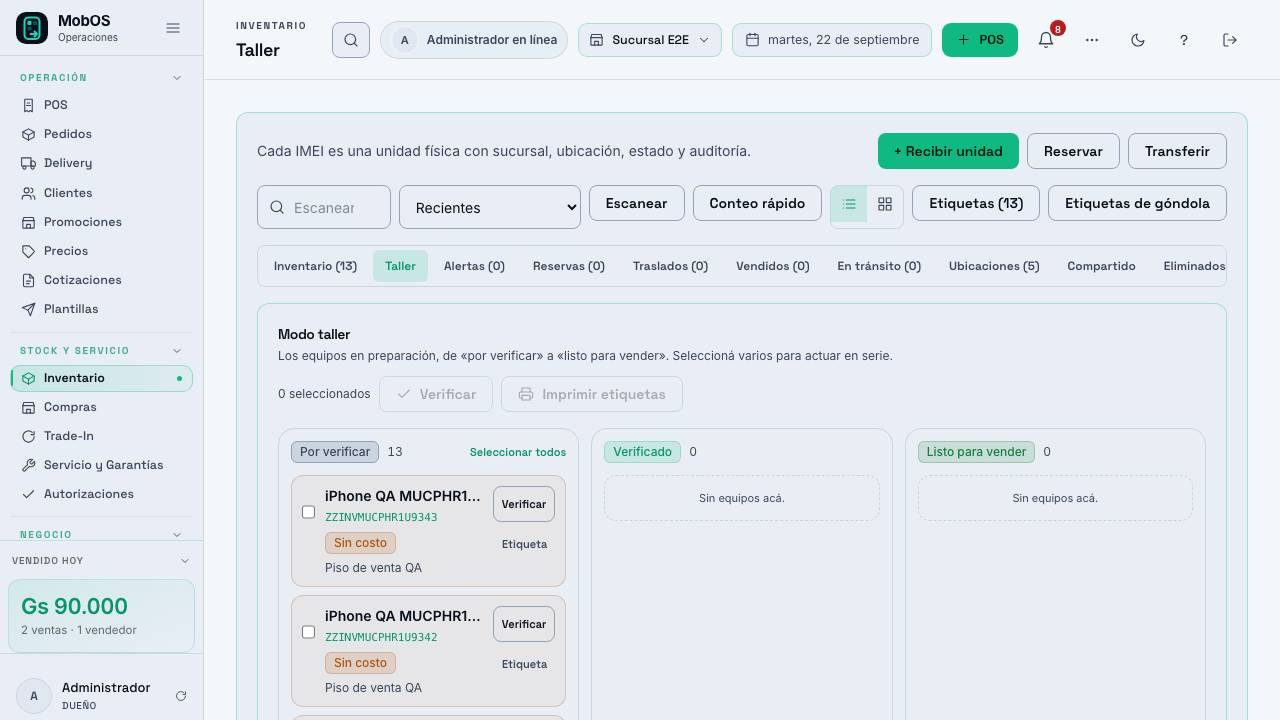
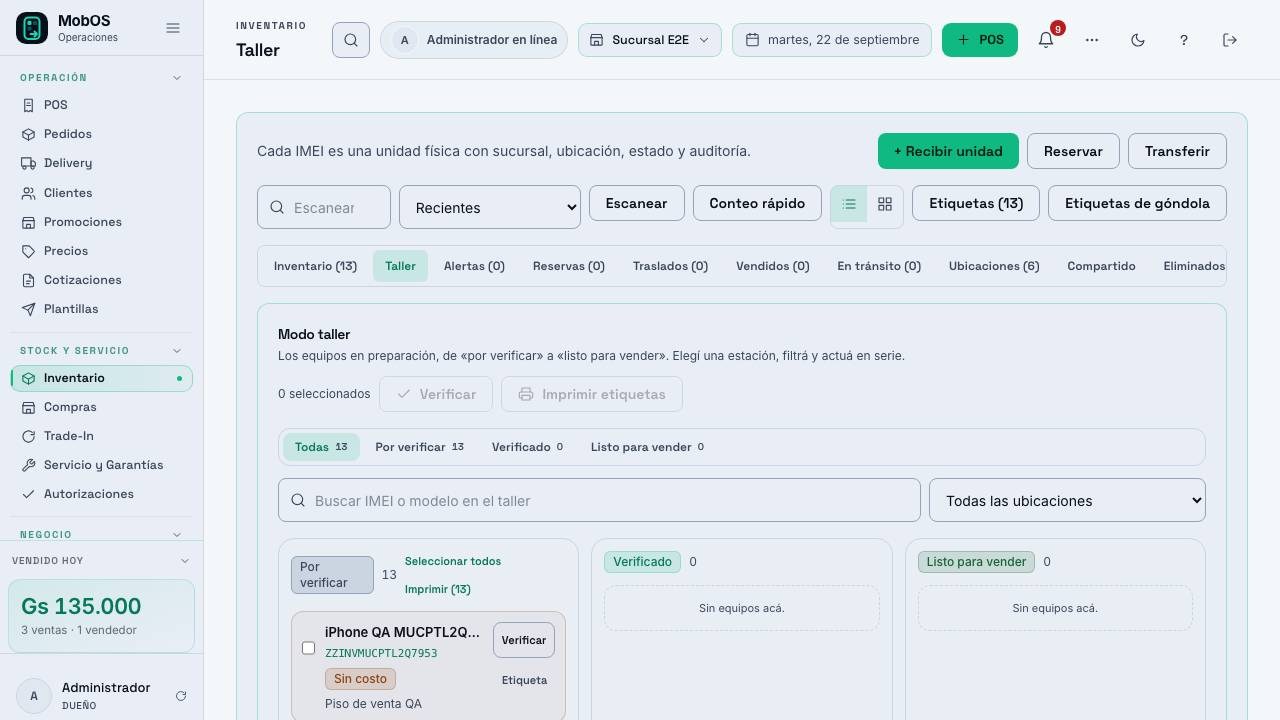
feat(inventario): estaciones, filtros e impresion en serie en el modo taller (#240/#241)
- Estaciones del flujo (Todas / Por verificar / Verificado / Listo) con conteos:
  al elegir una se muestra solo ese carril (util en movil y lotes grandes).
- Filtros por IMEI/modelo (sin acentos) y por ubicacion, con estados vacios
  propios; el verificador post-deploy tambien cubre el rack en el demo.
- Impresion en serie: por seleccion y por carril completo (Imprimir (n)),
  ademas de la barra de acciones ya existente.
- Logica pura ampliada en src/lib/tallerRack.js (ESTACIONES, filtrarRack) con
  tests; e2e del inventario 10/10 y capturas 04/05 en docs/qa/240-taller/.

Refs #240
Refs #241

diff --git a/src/components/inventory/TallerRack.jsx b/src/components/inventory/TallerRack.jsx
@@ -1,9 +1,10 @@
 import { useMemo, useState } from 'react'
-import { Badge, Button, Card } from '@/components/ui'
+import { Badge, Button, Card, Select } from '@/components/ui'
 import Icon from '@/components/shared/Icon'
-import { CELDA_DATO } from '@/components/shared/tabla'
+import SearchField from '@/components/shared/SearchField'
+import { CELDA_DATO, CELDA_IDENTIDAD } from '@/components/shared/tabla'
 import { cn } from '@/lib/utils'
-import { agruparRack, bateriaDe, conCosto, estadoEnRack, ETIQUETA_RACK, gradoDe, ORDEN_RACK, TONO_RACK } from '@/lib/tallerRack'
+import { agruparRack, bateriaDe, conCosto, ESTACIONES, estadoEnRack, ETIQUETA_RACK, filtrarRack, gradoDe, ORDEN_RACK, TONO_RACK } from '@/lib/tallerRack'
 
 const COLOR_GRADO = { A: 'green', B: 'orange', C: 'slate' }
 
@@ -13,17 +14,19 @@ function nombreUnidad(unit) {
 
 function tileTonos(estado) {
   if (estado === 'listo') return 'border-ok/30 bg-ok/5'
-  if (estado === 'verificado') return 'border-sky-400/25 bg-sky-400/5'
+  if (estado === 'verificado') return 'border-info/25 bg-info/5'
   return 'border-warn/25 bg-warn/5'
 }
 
 // Modo taller/rack (#240 §4): varios equipos en preparación agrupados por
-// estado (por verificar → verificado → listo para vender) con acciones en serie
-// (verificar / imprimir etiquetas). Reutiliza la verificación y las etiquetas
-// del inventario; cuando INV aterrice la inspección (#240 §1-2), cada tile
-// muestra el grado y la batería sin cambiar esta pantalla.
+// estación (por verificar → verificado → listo para vender), con filtros
+// (búsqueda/ubicación), impresión en serie (selección o carril completo) y
+// acciones por unidad. Reutiliza la verificación y las etiquetas del
+// inventario; cuando INV aterrice la inspección (#240 §1-2), cada tile muestra
+// el grado y la batería sin cambiar esta pantalla.
 export default function TallerRack({
   unidades = [],
+  ubicaciones = [],
   busy = false,
   onVerificar,
   onVerificarLote,
@@ -31,9 +34,15 @@ export default function TallerRack({
   onEtiquetasLote,
 }) {
   const [seleccionados, setSeleccionados] = useState([])
-  const grupos = useMemo(() => agruparRack(unidades), [unidades])
+  const [estacion, setEstacion] = useState('todas')
+  const [busqueda, setBusqueda] = useState('')
+  const [ubicacionId, setUbicacionId] = useState('')
+
+  const filtradas = useMemo(() => filtrarRack(unidades, { busqueda, ubicacionId }), [unidades, busqueda, ubicacionId])
+  const grupos = useMemo(() => agruparRack(filtradas), [filtradas])
   const porId = useMemo(() => new Map(unidades.map((unit) => [unit.id, unit])), [unidades])
   const elegidas = seleccionados.map((id) => porId.get(id)).filter(Boolean)
+  const visibles = estacion === 'todas' ? ORDEN_RACK : [estacion]
 
   const alternar = (id) => setSeleccionados((actuales) => (
     actuales.includes(id) ? actuales.filter((x) => x !== id) : [...actuales, id]
@@ -45,6 +54,7 @@ export default function TallerRack({
       return todos ? actuales.filter((id) => !ids.includes(id)) : [...new Set([...actuales, ...ids])]
     })
   }
+  const conteo = (id) => (id === 'todas' ? filtradas.length : grupos[id].length)
 
   return (
     <Card className="p-4 md:p-5" data-testid="rack-taller">
@@ -52,7 +62,7 @@ export default function TallerRack({
         <div className="min-w-0">
           <h2 className="font-semibold">Modo taller</h2>
           <p className="mt-1 text-xs text-mute">
-            Los equipos en preparación, de «por verificar» a «listo para vender». Seleccioná varios para actuar en serie.
+            Los equipos en preparación, de «por verificar» a «listo para vender». Elegí una estación, filtrá y actuá en serie.
           </p>
         </div>
         <div className="flex flex-wrap items-center gap-2">
@@ -75,11 +85,62 @@ export default function TallerRack({
           >
             <Icon name="printer" className="h-4 w-4" /> Imprimir etiquetas
           </Button>
+          {elegidas.length > 0 && (
+            <button
+              type="button"
+              className="text-xs font-semibold text-mute hover:underline"
+              onClick={() => setSeleccionados([])}
+            >
+              Limpiar
+            </button>
+          )}
         </div>
       </div>
 
-      <div className="mt-4 grid gap-3 lg:grid-cols-3">
-        {ORDEN_RACK.map((estado) => {
+      {/* Estaciones del flujo (con conteos): Todas o una sola. */}
+      <div className="mt-4 flex flex-wrap gap-1 rounded-xl border border-ink-600 bg-ink-800 p-1" role="tablist" aria-label="Estaciones del taller">
+        {ESTACIONES.map(({ id, label }) => (
+          <button
+            key={id}
+            type="button"
+            role="tab"
+            aria-selected={estacion === id}
+            data-testid={`rack-estacion-${id}`}
+            onClick={() => setEstacion(id)}
+            className={cn(
+              'flex items-center gap-1.5 rounded-lg px-3 py-1.5 text-xs font-semibold transition',
+              estacion === id ? 'bg-fono/15 text-fono-light' : 'text-mute hover:text-fore',
+            )}
+          >
+            {label}
+            <span className="tabular-nums text-[10px] text-mute">{conteo(id)}</span>
+          </button>
+        ))}
+      </div>
+
+      <div className="mt-3 flex flex-wrap gap-2">
+        <SearchField
+          value={busqueda}
+          onChange={(event) => setBusqueda(event.target.value)}
+          placeholder="Buscar IMEI o modelo en el taller"
+          ariaLabel="Buscar en el taller"
+          className="min-w-0 flex-1"
+        />
+        <Select
+          aria-label="Filtrar por ubicación"
+          className="w-auto"
+          value={ubicacionId}
+          onChange={(event) => setUbicacionId(event.target.value)}
+        >
+          <option value="">Todas las ubicaciones</option>
+          {ubicaciones.map((ubicacion) => (
+            <option key={ubicacion.id} value={ubicacion.id}>{ubicacion.name}</option>
+          ))}
+        </Select>
+      </div>
+
+      <div className={cn('mt-4 grid gap-3', visibles.length > 1 ? 'lg:grid-cols-3' : '')}>
+        {visibles.map((estado) => {
           const lista = grupos[estado]
           const todos = lista.length > 0 && lista.every((unit) => seleccionados.includes(unit.id))
           return (
@@ -94,14 +155,26 @@ export default function TallerRack({
                   <span className="text-xs tabular-nums text-mute">{lista.length}</span>
                 </span>
                 {lista.length > 0 && (
-                  <button
-                    type="button"
-                    onClick={() => alternarColumna(estado)}
-                    className="text-[11px] font-semibold text-fono-light hover:underline"
-                    data-testid={`rack-seleccionar-${estado}`}
-                  >
-                    {todos ? 'Quitar todos' : 'Seleccionar todos'}
-                  </button>
+                  <span className="flex flex-wrap items-center gap-2">
+                    <button
+                      type="button"
+                      onClick={() => alternarColumna(estado)}
+                      className="text-[11px] font-semibold text-fono-light hover:underline"
+                      data-testid={`rack-seleccionar-${estado}`}
+                    >
+                      {todos ? 'Quitar todos' : 'Seleccionar todos'}
+                    </button>
+                    <button
+                      type="button"
+                      disabled={busy}
+                      onClick={() => onEtiquetasLote?.(lista)}
+                      className="text-[11px] font-semibold text-fono-light hover:underline disabled:opacity-50"
+                      title={`Imprimir las etiquetas de los ${lista.length} equipos de esta estación`}
+                      data-testid={`rack-imprimir-${estado}`}
+                    >
+                      Imprimir ({lista.length})
+                    </button>
+                  </span>
                 )}
               </header>
               <div className="mt-3 space-y-2">
@@ -125,7 +198,7 @@ export default function TallerRack({
                           aria-label={`Seleccionar ${unit.serial}`}
                         />
                         <div className="min-w-0 flex-1">
-                          <p className="truncate text-sm font-semibold" title={nombreUnidad(unit)}>{nombreUnidad(unit)}</p>
+                          <p className={CELDA_IDENTIDAD} title={nombreUnidad(unit)}>{nombreUnidad(unit)}</p>
                           <p className="mt-0.5 truncate font-mono text-[11px] text-fono-light" title={unit.serial}>{unit.serial}</p>
                           <p className="mt-1 flex flex-wrap items-center gap-1.5">
                             {grado && <Badge color={COLOR_GRADO[grado]}>Grado {grado}</Badge>}
@@ -150,7 +223,7 @@ export default function TallerRack({
                 })}
                 {!lista.length && (
                   <p className="rounded-xl border border-dashed border-ink-600 p-3 text-center text-[11px] text-mute">
-                    Sin equipos acá.
+                    {busqueda || ubicacionId ? 'Nada coincide con el filtro.' : 'Sin equipos acá.'}
                   </p>
                 )}
               </div>

diff --git a/e2e/inventario-unidades.spec.js b/e2e/inventario-unidades.spec.js
@@ -338,6 +338,26 @@ test('el modo taller agrupa por estado y verifica en serie', async ({ page }) =>
     }
     await page.screenshot({ path: 'docs/qa/240-taller/02-despues-rack.jpg', type: 'jpeg', quality: 70 })
 
+    // Estaciones: una sola a la vez.
+    await page.getByTestId('rack-estacion-por-verificar').click()
+    await expect(page.getByTestId('rack-columna-por-verificar')).toBeVisible()
+    await expect(page.getByTestId('rack-columna-listo')).toHaveCount(0)
+    await page.screenshot({ path: 'docs/qa/240-taller/04-rack-estacion.jpg', type: 'jpeg', quality: 70 })
+    await page.getByTestId('rack-estacion-todas').click()
+    await expect(page.getByTestId('rack-columna-listo')).toBeVisible()
+
+    // Filtros: búsqueda por IMEI (y ubicación) sobre el rack.
+    await page.getByLabel('Buscar en el taller').fill(datos.unidades[0].serial)
+    await expect(page.getByTestId('rack-equipo')).toHaveCount(1)
+    await page.screenshot({ path: 'docs/qa/240-taller/05-rack-busqueda.jpg', type: 'jpeg', quality: 70 })
+    await page.getByLabel('Buscar en el taller').fill('')
+    await page.getByLabel('Filtrar por ubicación').selectOption({ label: datos.locationName })
+    await expect(page.getByTestId('rack-equipo').filter({ hasText: datos.unidades[0].serial })).toBeVisible()
+    await page.getByLabel('Filtrar por ubicación').selectOption('')
+
+    // Impresión en serie: la selección y el carril completo.
+    await expect(page.getByTestId('rack-imprimir-por-verificar')).toBeEnabled()
+
     // Selección de las unidades nuevas y verificación en serie.
     for (const unidad of datos.unidades) await page.getByLabel(`Seleccionar ${unidad.serial}`).check()
     await expect(page.getByTestId('rack-seleccionados')).toHaveText('3 seleccionados')

diff --git a/src/lib/tallerRack.test.js b/src/lib/tallerRack.test.js
@@ -1,6 +1,6 @@
 import assert from 'node:assert/strict'
 import test from 'node:test'
-import { agruparRack, bateriaDe, conCosto, estadoEnRack, gradoDe, sinVerificar, verificada } from './tallerRack.js'
+import { agruparRack, bateriaDe, conCosto, estadoEnRack, filtrarRack, gradoDe, normalizarBusqueda, sinVerificar, verificada } from './tallerRack.js'
 
 // #240 §4: estados del modo taller/rack.
 
@@ -49,4 +49,16 @@ test('agrupa y cuenta las unidades sin verificar', () => {
   assert.deepEqual(grupos.listo.map((u) => u.id), ['u2'])
   assert.deepEqual(grupos.verificado.map((u) => u.id), ['u3'])
   assert.deepEqual(sinVerificar(units).map((u) => u.id), ['u1'])
+})
+
+test('filtra por IMEI o modelo (sin acentos ni mayúsculas) y por ubicación', () => {
+  const units = [
+    { id: 'u1', serial: 'AUR123', product: { name: 'iPhone 15 Pro' }, locationId: 'loc-1' },
+    { id: 'u2', serial: 'SAM456', product: { name: 'Samsung S24' }, locationId: 'loc-2' },
+  ]
+  assert.deepEqual(filtrarRack(units, { busqueda: 'aur12' }).map((u) => u.id), ['u1'])
+  assert.deepEqual(filtrarRack(units, { busqueda: 'IPHONE' }).map((u) => u.id), ['u1'])
+  assert.deepEqual(filtrarRack(units, { ubicacionId: 'loc-2' }).map((u) => u.id), ['u2'])
+  assert.deepEqual(filtrarRack(units, { busqueda: 'samsung', ubicacionId: 'loc-1' }), [])
+  assert.equal(normalizarBusqueda('  iPhone 15  '), 'iphone 15')
 })

diff --git a/src/lib/tallerRack.js b/src/lib/tallerRack.js
@@ -79,3 +79,27 @@ export function agruparRack(unidades = []) {
 export function sinVerificar(unidades = []) {
   return unidades.filter((unidad) => !verificada(unidad))
 }
+
+// Estaciones del rack: la vista completa o una sola estación (útil en móvil y
+// con lotes grandes). Los ids coinciden con los estados.
+export const ESTACIONES = [
+  { id: 'todas', label: 'Todas' },
+  { id: 'por-verificar', label: ETIQUETA_RACK['por-verificar'] },
+  { id: 'verificado', label: ETIQUETA_RACK.verificado },
+  { id: 'listo', label: ETIQUETA_RACK.listo },
+]
+
+export function normalizarBusqueda(valor) {
+  return String(valor || '').toLowerCase().normalize('NFD').replace(/[\u0300-\u036f]/g, '').trim()
+}
+
+/** Filtros del rack: búsqueda por IMEI/modelo y ubicación (vacío = todo). */
+export function filtrarRack(unidades = [], { busqueda = '', ubicacionId = '' } = {}) {
+  const termino = normalizarBusqueda(busqueda)
+  return unidades.filter((unidad) => {
+    if (ubicacionId && unidad.locationId !== ubicacionId) return false
+    if (!termino) return true
+    return [unidad.serial, unidad.product?.name, unidad.product?.nombre]
+      .some((valor) => normalizarBusqueda(valor).includes(termino))
+  })
+}

diff --git a/src/components/control/Inventario.jsx b/src/components/control/Inventario.jsx
@@ -1066,6 +1066,7 @@ export default function Inventario({ tab: tabProp, onTabChange } = {}) {
       <div className="mt-4">
         <TallerRack
           unidades={disponibles}
+          ubicaciones={locations}
           busy={busy}
           onVerificar={(unit) => verify(unit)}
           onVerificarLote={verificarLote}
